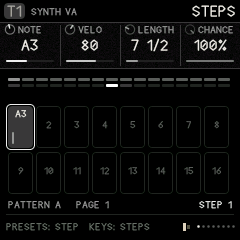
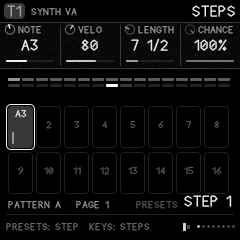
STEPS: the step on the knobs reads as a fifth control
A bold STEP n, labelled PRESETS, at the bottom right of the step pages.

Claude-Session: https://claude.ai/code/session_01BwzGhPZLDZkrxZk5dy3Yyf

Changed region(s): [[0.5542, 0.7875, 0.9917, 0.875]]

diff --git a/firmware/app/rv_ui.c b/firmware/app/rv_ui.c
@@ -4542,10 +4542,13 @@ static void pic_steps(void)
             char sb[16] = "STEP REC ";
             sx_int(sb + 9, rv_live.srec_step + 1);
             g_text_r(232, PIC_Y + 124, &FONT_T, sb, C_RED);
-        } else if (cur_page()->pr == PR_STEP) {      /* the step on the knobs (PRESETS moves it) */
+        } else if (cur_page()->pr == PR_STEP) {      /* STEP: the step on the knobs, a fifth control (PRESETS moves it) */
             char sb[12] = "STEP ";
+            int w;
             sx_int(sb + 5, ui.step_cur + 1);
-            g_text_r(232, PIC_Y + 124, &FONT_T, sb, C_K1);
+            w = g_text_w(&FONT_B, sb);
+            g_text_r(232, PIC_Y + 118, &FONT_B, sb, C_K1);
+            g_text_r(232 - w - 6, PIC_Y + 124, &FONT_T, "PRESETS", C_DIM);
         }
     }
 }
